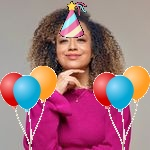
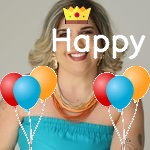
+

diff --git a/faceDetection.py b/faceDetection.py
@@ -57,6 +57,14 @@ def object_above_head(img, face_rect, object_img, object_img2):
                             img_final[pos_y2 + i, pos_x2 + j] = object_img2[i, j, :3]
     return img_final
 
+#adicionar texto à imagem
+def add_text(img, text, position, font=cv2.FONT_HERSHEY_SIMPLEX, scale=1, color=(255, 255, 255), thickness=2):
+
+    img_text = img.copy()
+
+    cv2.putText(img_text, text, position, font, scale, color, thickness, lineType=cv2.LINE_AA)
+    return img_text
+
 #detetar os olhos
 def detect_eyes(img):
     eye_img = img.copy()
@@ -86,6 +94,7 @@ enfeites_folder = glob.glob(os.path.join(images_enfeite, '*'))
 images_enfeite2 = 'enfeites/baloes'
 enfeites_folder2 = glob.glob(os.path.join(images_enfeite2, '*'))
 
+
 #caminho das imagens do insta
 image_folder = 'images'
 output_folder = 'happyBirthday'
@@ -95,7 +104,7 @@ os.makedirs(output_folder, exist_ok=True)
 image_files = glob.glob(os.path.join(image_folder, '*'))
 
 # Loop through each image file
-for image_file in image_files:
+for i, image_file in enumerate(image_files):
     print(f"Change image: {image_file}")
     img = cv2.imread(image_file)
 
@@ -108,8 +117,17 @@ for image_file in image_files:
 
     face_detection = detect_faces(img)
     img_object = object_above_head(img, face_detection, object_img, object_img2)
+
+    filename_read = f"gemini_res/insta_{i+1}.txt"
+    with open(filename_read, "r", encoding="utf-8") as f:
+        data = f.read()
+
+    text = data
+    position = (50, 50)
+    img_text = add_text(img_object, text, position)
+    
     #img_final = cv2.cvtColor(img_object, cv2.COLOR_BGR2RGB)
 
     output_file = os.path.join(output_folder, os.path.basename(image_file))
-    cv2.imwrite(output_file, img_object)
+    cv2.imwrite(output_file, img_text)
     #os.remove(image_file)
